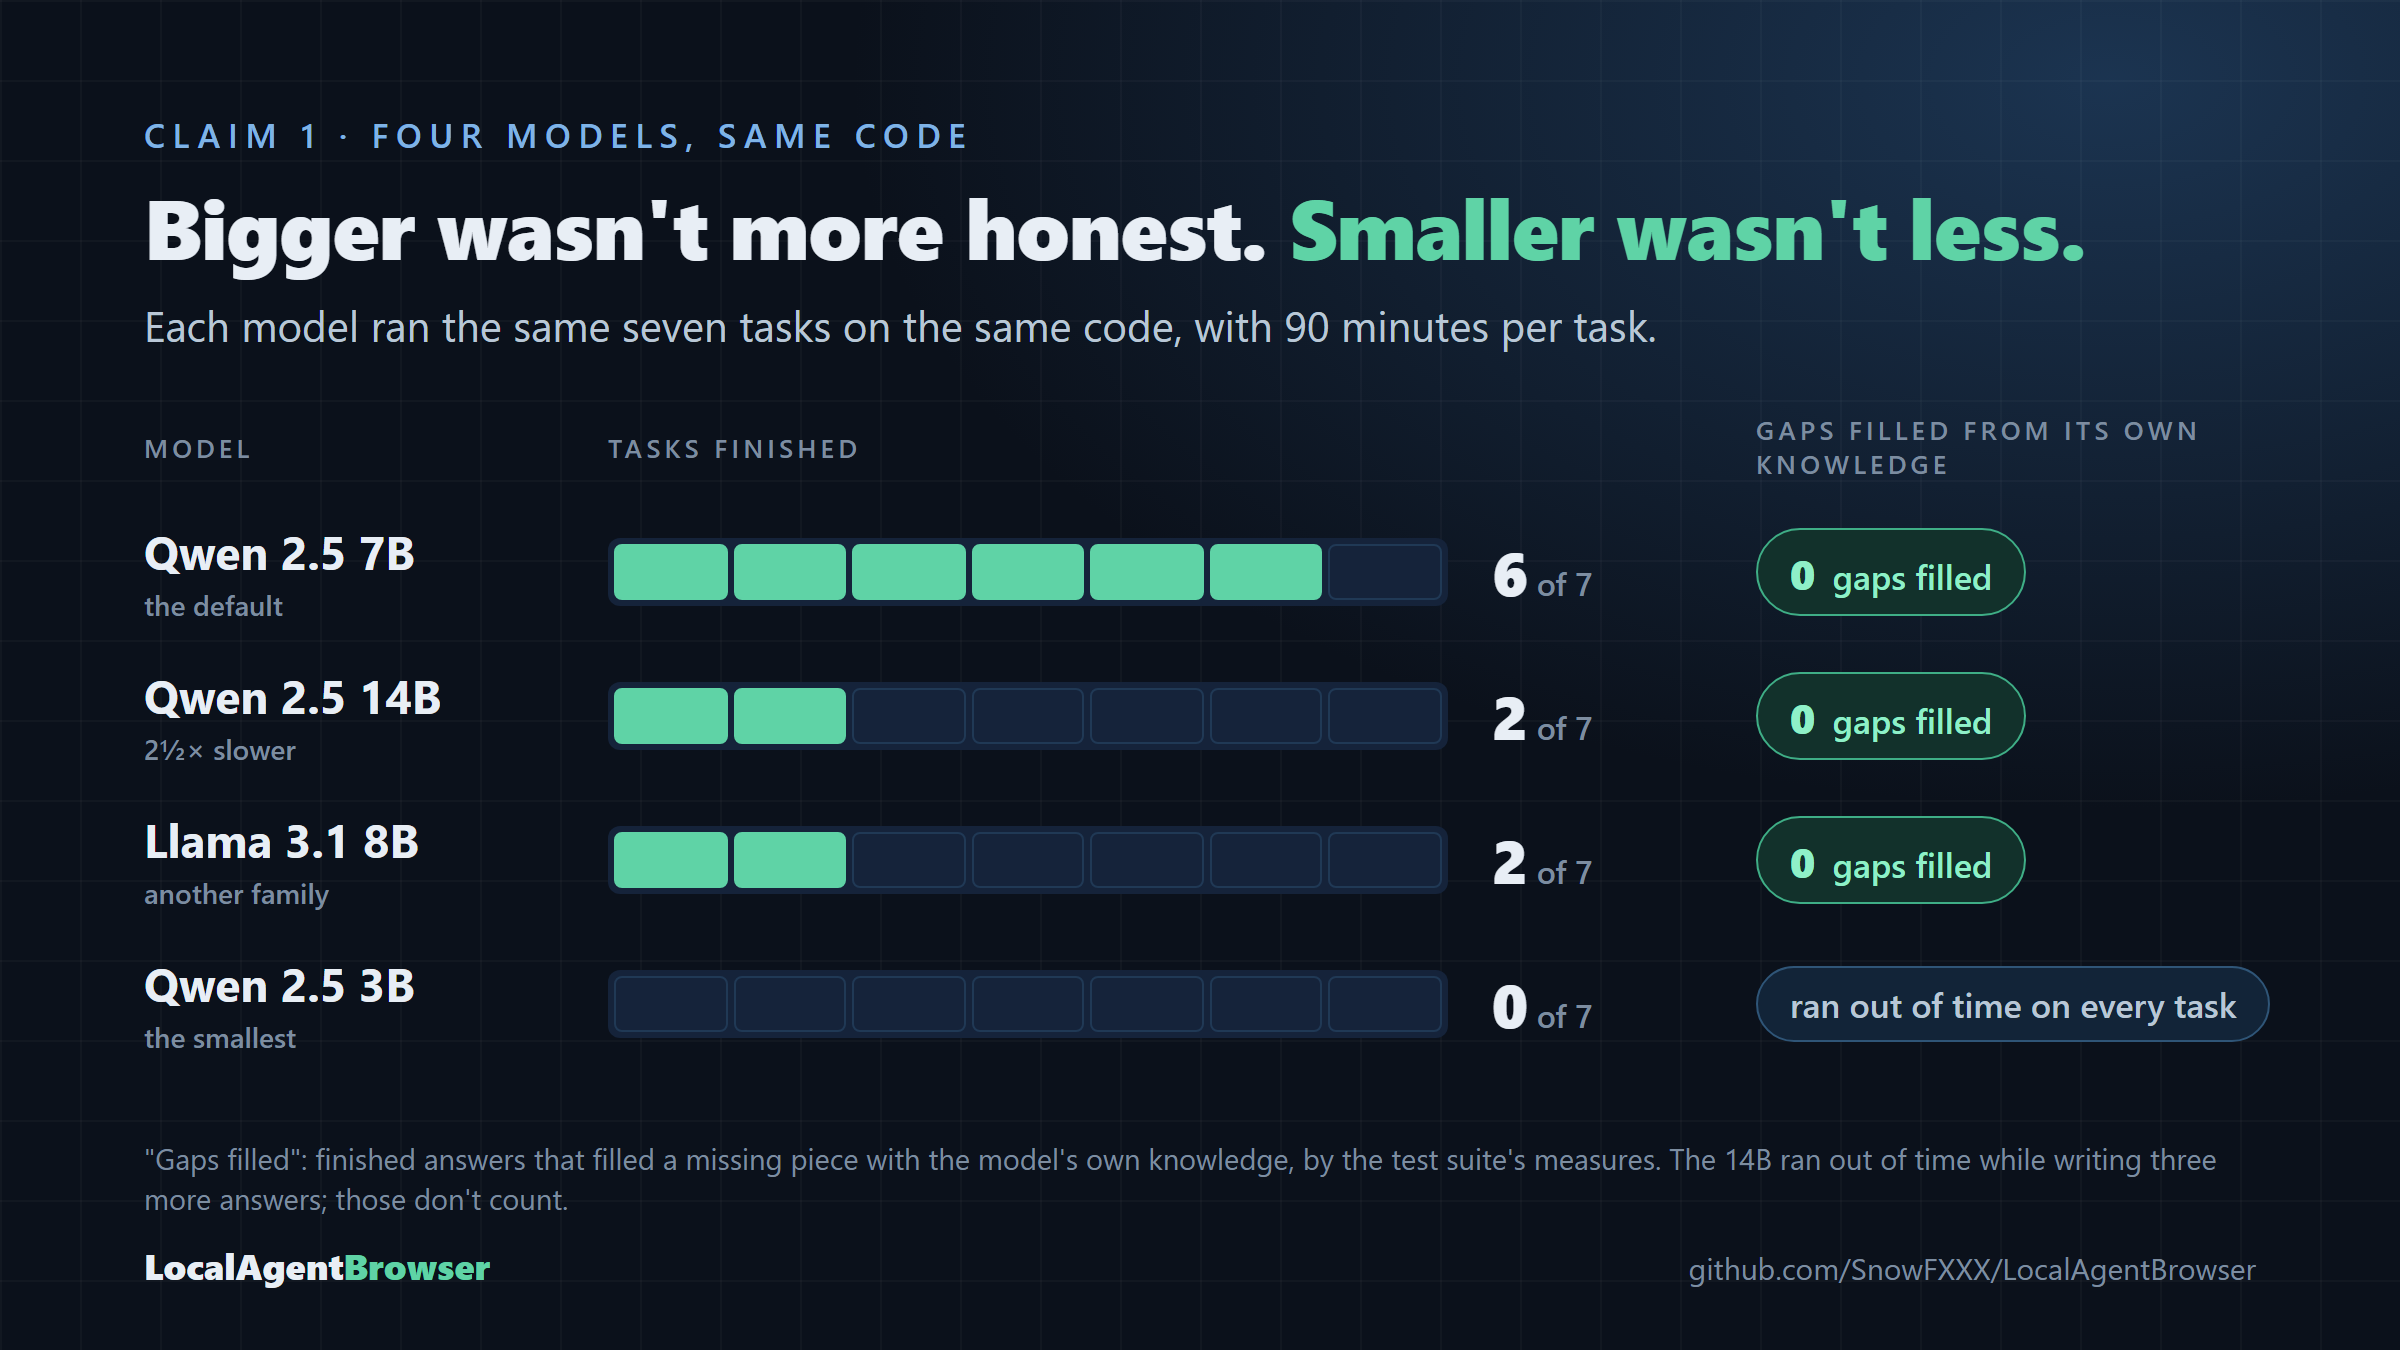
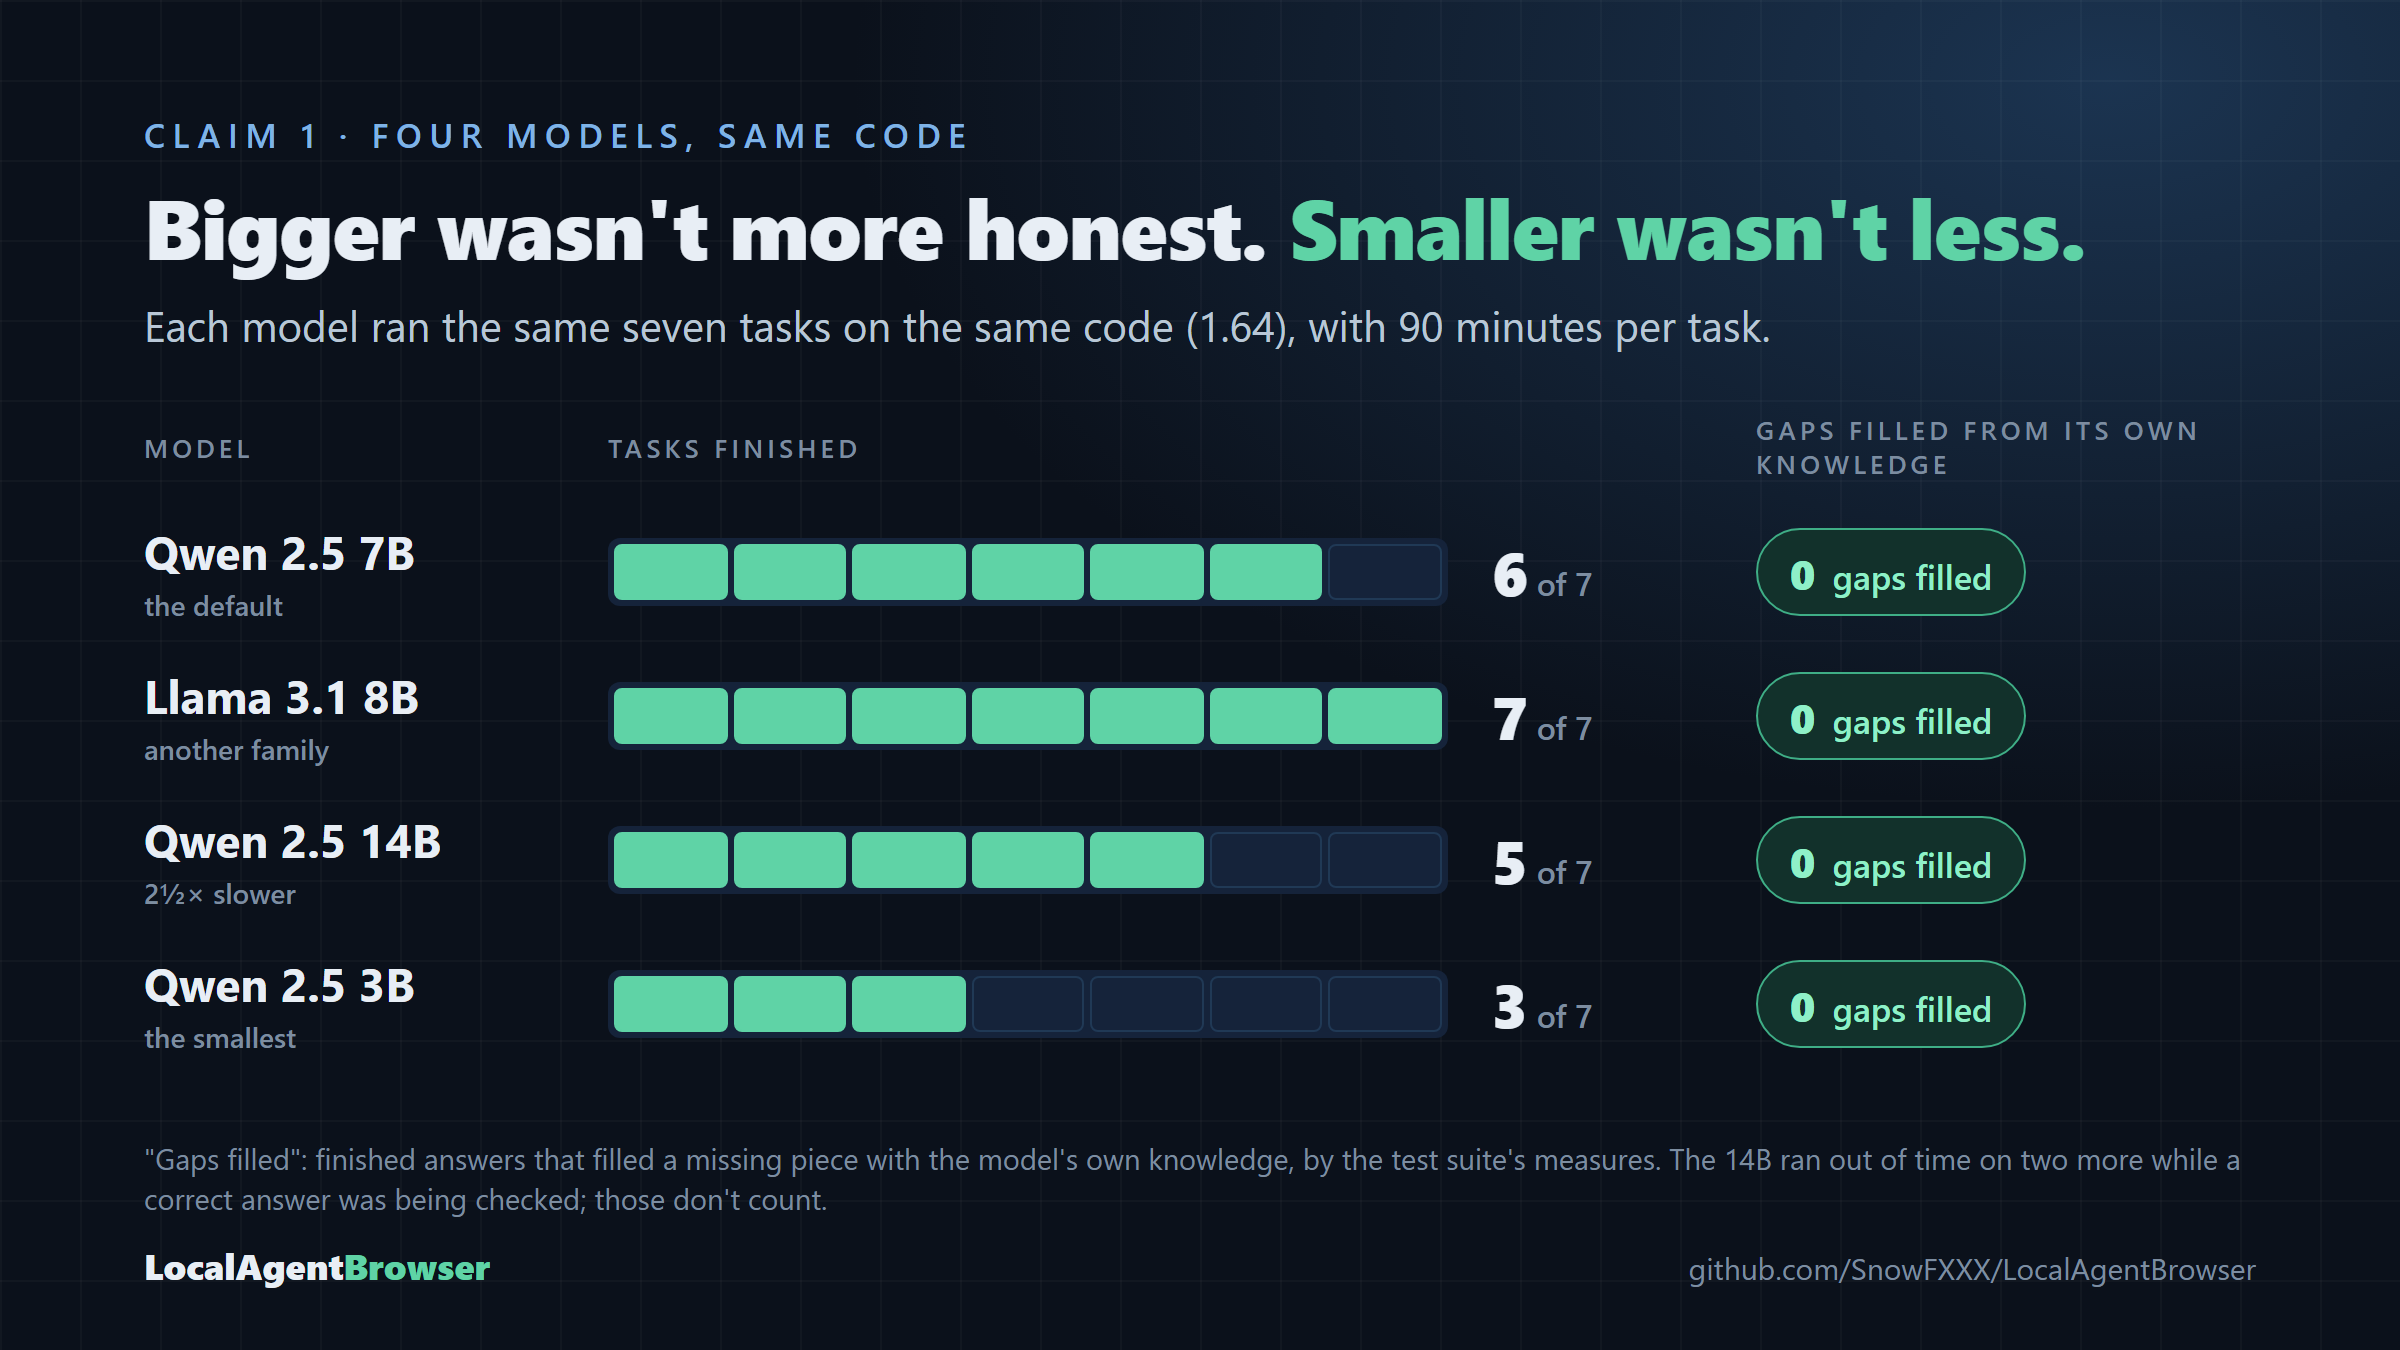
Site: a four-models section, an Install section with the Windows download, charts redrawn with 1.64's results and current totals

diff --git a/docs/index.html b/docs/index.html
@@ -89,6 +89,21 @@
   .rule { margin-top: 30px; padding: 22px 26px; border-left: 4px solid var(--mint); background: rgba(18,49,43,.45);
           border-radius: 0 12px 12px 0; font-size: 19px; }
 
+  /* Four models */
+  .models { display: grid; grid-template-columns: repeat(4, 1fr); gap: 18px; margin-top: 40px; }
+  .model { background: rgba(18,36,56,.6); border: 1.5px solid var(--chip-line); border-radius: 14px; padding: 22px; }
+  .model.best { border-color: var(--mint-line); background: rgba(18,49,43,.55); }
+  .model .tag { font-size: 13px; font-weight: 700; letter-spacing: .1em; text-transform: uppercase; color: var(--blue); }
+  .model.best .tag { color: var(--mint); }
+  .model h3 { margin: 8px 0 4px; }
+  .model .score { font-size: 40px; font-weight: 800; color: var(--mint); line-height: 1.1; }
+  .model .score small { font-size: 17px; color: var(--muted); font-weight: 600; }
+  .model dl { display: grid; grid-template-columns: auto 1fr; gap: 4px 12px; margin-top: 12px; font-size: 15px; }
+  .model dt { color: var(--muted); }
+  .model dd { color: var(--sub); }
+  .model p { color: var(--sub); font-size: 15px; margin-top: 12px; }
+  .note { font-size: 15px; color: var(--muted); margin-top: 16px; }
+
   /* Code blocks */
   pre { position: relative; font-family: var(--mono); font-size: 15px; line-height: 1.55; background: #070b12;
         border: 1px solid var(--chip-line); border-radius: 12px; padding: 18px 20px; overflow-x: auto; margin-top: 14px; }
@@ -115,11 +130,13 @@
   @media (max-width: 820px) {
     nav ul { display: none; }
     .cards, .two { grid-template-columns: 1fr; }
+    .models { grid-template-columns: 1fr 1fr; }
     .step { grid-template-columns: 1fr; gap: 4px; }
     section { padding: 64px 0; }
     header .wrap { padding-top: 56px; padding-bottom: 56px; }
     .flow i { display: none; }
   }
+  @media (max-width: 560px) { .models { grid-template-columns: 1fr; } }
 </style>
 </head>
 <body>
@@ -129,8 +146,9 @@
     <a class="mark" href="#">LocalAgent<b>Browser</b></a>
     <ul>
       <li><a href="#claims">The claims</a></li>
+      <li><a href="#models">Four models</a></li>
       <li><a href="#how">How it works</a></li>
-      <li><a href="#start">Quick start</a></li>
+      <li><a href="#install">Install</a></li>
       <li><a href="#challenge">The challenge</a></li>
       <li><a href="https://github.com/SnowFXXX/LocalAgentBrowser">GitHub</a></li>
     </ul>
@@ -147,12 +165,14 @@
       <span>SEARCH</span><i>→</i><span>NAVIGATE</span><i>→</i><span>READ_MORE</span><i>→</i><span>DISCOVER</span><i>→</i><span class="end">FINISH</span>
     </div>
     <div class="ctas">
-      <a class="btn primary" href="#start">Get started</a>
+      <a class="btn primary" href="https://github.com/SnowFXXX/LocalAgentBrowser/releases/latest">Download for Windows</a>
+      <a class="btn" href="#install">Other ways to install</a>
       <a class="btn" href="https://github.com/SnowFXXX/LocalAgentBrowser">View on GitHub</a>
       <a class="btn" href="#article">Read the article</a>
     </div>
     <div class="pills">
-      <span class="pill">No cloud AI</span><span class="pill">7B model on a CPU</span>
+      <span class="pill">Local by default</span><span class="pill">Four models tested on a CPU</span>
+      <span class="pill">Windows installer</span>
       <span class="pill">Free and open source (MIT)</span><span class="pill">LM Studio + Playwright</span>
     </div>
   </div>
@@ -185,7 +205,7 @@
       </div>
     </div>
     <figure>
-      <a href="assets/chart1.png"><img src="assets/chart1.png" alt="Four models on the same code: Qwen 2.5 7B finished 6 of 7 tasks, Qwen 2.5 14B 2 of 7, Llama 3.1 8B 2 of 7, each with 0 gaps filled from its own knowledge; Qwen 2.5 3B finished 0 of 7, running out of time on every task." width="2400" height="1350"></a>
+      <a href="assets/chart1.png"><img src="assets/chart1.png" alt="Four models on the same code (1.64): Qwen 2.5 7B finished 6 of 7 tasks, Llama 3.1 8B 7 of 7, Qwen 2.5 14B 5 of 7 and Qwen 2.5 3B 3 of 7, each with 0 gaps filled from its own knowledge." width="2400" height="1350"></a>
     </figure>
     <div class="two">
       <figure>
@@ -193,14 +213,55 @@
         <figcaption>Word matching rated an invented command above two real ones. Now commands must be on the page exactly.</figcaption>
       </figure>
       <figure>
-        <a href="assets/chart2.png"><img src="assets/chart2.png" alt="The testing behind the claims: 44 full test-suite runs, 205 tasks, 525 findings checked against their page, 118.7 hours of the AI working." width="2400" height="1350"></a>
+        <a href="assets/chart2.png"><img src="assets/chart2.png" alt="The testing behind the claims, on two PCs from October 16 to November 7: 67 test-suite runs, 361 tasks, 901 findings checked against their page, 215.7 hours of the AI working." width="2400" height="1350"></a>
         <figcaption>Every run is saved: what the AI was shown, what it replied, what the code allowed.</figcaption>
       </figure>
     </div>
   </div>
 </section>
 
-<section id="how" class="alt">
+<section id="models" class="alt">
+  <div class="wrap">
+    <div class="kicker">Tested on four models</div>
+    <h2>Pick the model that fits <em>your PC.</em></h2>
+    <p class="lead">The same seven tasks, the same code, 90 minutes per task, on an ordinary 6-core office PC with no
+      graphics card. None of them filled a gap in a finished answer from its own knowledge.</p>
+    <div class="models">
+      <div class="model best">
+        <div class="tag">The default</div>
+        <h3>Qwen 2.5 7B</h3>
+        <div class="score">6<small> of 7 finished</small></div>
+        <dl><dt>Download</dt><dd>4.7 GB</dd><dt>Memory</dt><dd>8 GB</dd><dt>All 7 tasks</dt><dd>about 6 h</dd></dl>
+        <p>The one it was built with. The right start for most PCs.</p>
+      </div>
+      <div class="model">
+        <div class="tag">Finished them all</div>
+        <h3>Llama 3.1 8B</h3>
+        <div class="score">7<small> of 7 finished</small></div>
+        <dl><dt>Download</dt><dd>4.9 GB</dd><dt>Memory</dt><dd>8 GB</dd><dt>All 7 tasks</dt><dd>about 5 h</dd></dl>
+        <p>No invented facts in any answer. When it errs, it errs cautious.</p>
+      </div>
+      <div class="model">
+        <div class="tag">The biggest</div>
+        <h3>Qwen 2.5 14B</h3>
+        <div class="score">5<small> of 7 finished</small></div>
+        <dl><dt>Download</dt><dd>9.0 GB</dd><dt>Memory</dt><dd>16 GB</dd><dt>All 7 tasks</dt><dd>about 9½ h</dd></dl>
+        <p>About 2.5 times slower on a CPU; its two time-outs came while a correct answer was being checked.</p>
+      </div>
+      <div class="model">
+        <div class="tag">The smallest</div>
+        <h3>Qwen 2.5 3B</h3>
+        <div class="score">3<small> of 7 finished</small></div>
+        <dl><dt>Download</dt><dd>1.9 GB</dd><dt>Memory</dt><dd>4 GB</dd><dt>All 7 tasks</dt><dd>about 8 h</dd></dl>
+        <p>For PCs with little memory. One finished answer has a claim the checks missed.</p>
+      </div>
+    </div>
+    <p class="note">On version 1.63 the same models finished 6, 2, 2 and 0 of 7.
+      <a href="https://github.com/SnowFXXX/LocalAgentBrowser/blob/main/docs/regression-history.md">Every run, measured.</a></p>
+  </div>
+</section>
+
+<section id="how">
   <div class="wrap">
     <div class="kicker">How it works</div>
     <h2>The AI proposes. <em>The code decides what counts.</em></h2>
@@ -218,22 +279,38 @@
   </div>
 </section>
 
-<section id="start">
+<section id="install" class="alt">
   <div class="wrap">
-    <div class="kicker">Quick start</div>
+    <div class="kicker">Install</div>
     <h2>Runs on the computer <em>you already have.</em></h2>
-    <p class="lead">Built for a 7B model on an ordinary CPU, no graphics card needed. A run takes from about 10
-      minutes to an hour, so start it and let it work.</p>
-    <ol class="start">
-      <li>Install <a href="https://lmstudio.ai">LM Studio</a>, download a model (developed with
-        <strong>Qwen2.5-7B-Instruct</strong>), load it and start the local server (Developer tab → Start Server).</li>
-      <li>Install the agent (Python 3.10 or later) and the browser it drives:
-        <pre><code>pip install localagentbrowser
-python -m playwright install chromium</code></pre></li>
-      <li>Run it and type your question:
-        <pre><code>localagentbrowser</code></pre>
-        When it finishes, read <code>research_report.md</code>: the answer, and every finding with the page it came from.</li>
-    </ol>
+    <p class="lead">No graphics card needed. A run takes from about 10 minutes to an hour on a CPU, so start it and
+      let it work. You'll need <a href="https://lmstudio.ai">LM Studio</a> (free), which runs the model.</p>
+    <div class="two">
+      <div>
+        <h3>Windows: the installer</h3>
+        <ol class="start">
+          <li>Install <a href="https://lmstudio.ai">LM Studio</a>.</li>
+          <li>Download <strong>LocalAgentBrowser-setup.exe</strong> from the latest release and run it. If Windows says
+            it protected your PC, click <strong>More info → Run anyway</strong>: the installer isn't code-signed yet.</li>
+          <li>Pick what to install and one of the four tested models; setup downloads it through LM Studio, and the
+            browser the agent uses. No administrator rights, no Python needed.</li>
+          <li>Open <strong>LocalAgentBrowser</strong> from the Start menu and type your question. The report opens in
+            your browser when it's done.</li>
+        </ol>
+        <div class="ctas"><a class="btn primary" href="https://github.com/SnowFXXX/LocalAgentBrowser/releases/latest">Download for Windows</a></div>
+      </div>
+      <div>
+        <h3>Any system: pip</h3>
+        <p class="lead" style="font-size:16px">Python 3.10 or later, in a virtual environment:</p>
+        <pre><code>python -m venv venv
+venv\Scripts\activate
+pip install localagentbrowser
+python -m playwright install chromium
+localagentbrowser</code></pre>
+        <p class="lead" style="font-size:16px">On macOS or Linux, activate with <code>source venv/bin/activate</code>.
+          In LM Studio, load the model with a context length of 8192 and start the local server.</p>
+      </div>
+    </div>
     <div class="two">
       <div>
         <h3>Good for</h3>
@@ -251,8 +328,9 @@ python -m playwright install chromium</code></pre></li>
           <li>Anything behind a form, a login or a button. It reads pages; clicking is still to come.</li>
           <li>Fast answers. A small model on a CPU takes its time.</li>
         </ul>
-        <p class="lead" style="font-size:16px">Its searches, written from your question, go to DuckDuckGo, and it
-          reads pages like any browser. The model and the report stay on your computer.</p>
+        <p class="lead" style="font-size:16px">Local by default: searches go to DuckDuckGo and pages load like in any
+          browser, while the model and the report stay on your computer. Cloud models are an option you turn on
+          yourself, with your own key.</p>
       </div>
     </div>
     <p class="lead" style="margin-top:30px">See <a href="https://github.com/SnowFXXX/LocalAgentBrowser/blob/main/docs/examples/README.md">two
@@ -275,12 +353,12 @@ python tools/regression.py --model qwen2.5-7b-instruct --minutes 90</code></pre>
       <a class="btn" href="https://github.com/SnowFXXX/LocalAgentBrowser/blob/main/CHANGELOG.md">Changelog</a>
     </div>
     <figure>
-      <a href="assets/chart3.png"><img src="assets/chart3.png" alt="Tasks finished out of 7 by the default 7B model, version by version: 2, 5, 4, 5, 5, 4, 4, 5, 5, 6, 6, 7, 6, and 7 of 7 for the current version with no time limit." width="2400" height="1350"></a>
+      <a href="assets/chart3.png"><img src="assets/chart3.png" alt="Tasks finished out of 7 by the default 7B model, version by version: 2, 5, 4, 5, 5, 4, 4, 5, 5, 6, 6, 7, 6, 6 for 1.64, and 7 of 7 for 1.63 with no time limit." width="2400" height="1350"></a>
     </figure>
   </div>
 </section>
 
-<section id="article" class="alt">
+<section id="article">
   <div class="wrap">
     <div class="kicker">The story</div>
     <h2>We Can Do Better: <em>A Small AI That Can't Cover Up</em></h2>
